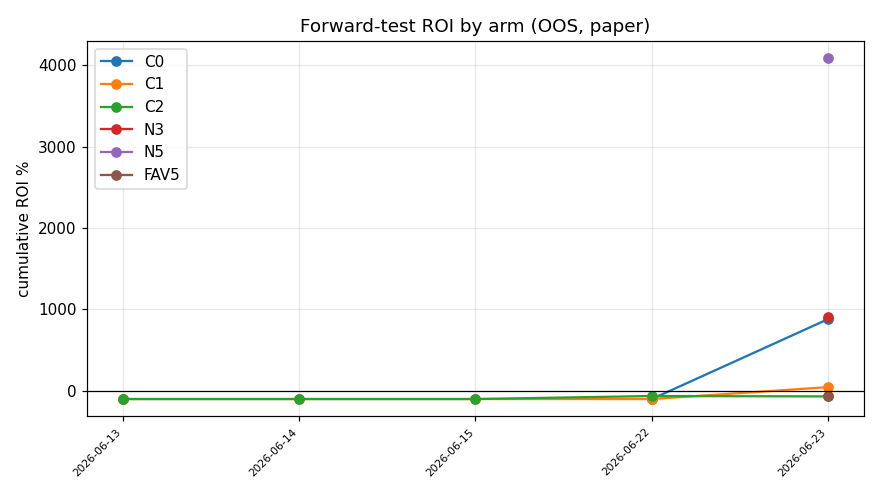
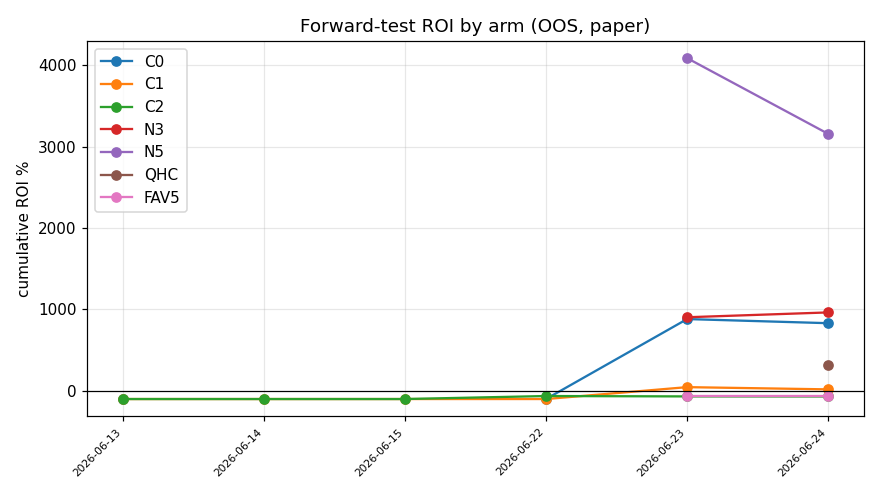
feat(sp_drift): P3 QHC forward arm (model conservative-quantile haircut)
MVP plan 2026-06-24, card P3. Adds a forward arm that decides at the 180min
window (like C2) but sizes on the (SP-band × MTK) drift model's q=0.25
conservative-quantile predicted settlement SP, instead of C2's frozen band map.

- replay.Policy gains sp_adjust callback + apply_sp_adjust(snaps, fn); replay_policy
  applies it after any band haircut. General SP transform, reuses the full pipeline.
- forward.build_qhc_arm(model, decision_mtk=WINDOW_MTK, q=0.25) -> ("QHC", Policy).
  runner fits the model and appends it. render_arm_table shows "—" for 0-stake
  (nan ROI). GATE-FT unchanged (check_stopping_rule still C0/C1/C2 only).
- 3 new tests (apply_sp_adjust, build_qhc_arm, run_forward includes QHC). 52 green.

Local commit (not pushed) — pending reviewer.

diff --git a/tests/sp_drift/test_forward.py b/tests/sp_drift/test_forward.py
@@ -205,3 +205,43 @@ def test_run_forward_returns_one_row_per_arm(tmp_path):
     r0 = rows[0]
     assert set(LEDGER_COLS) <= set(r0)               # every ledger column present
     assert r0["forward_start"] == "2026-06-13" and r0["run_date"] == "2026-06-21"
+
+
+# ---- P3: QHC (model conservative-quantile haircut) forward arm ----
+def test_apply_sp_adjust_maps_each_sp():
+    from src.phase5a.data_loader import LiveSnapshot
+    from src.sp_drift.replay import apply_sp_adjust
+    s = LiveSnapshot(match_id="m", issue="1", match_idx=1, league="x",
+                     kickoff_ts="t", home=None, away=None, handicap_line=None,
+                     sp_3=4.0, sp_1=None, sp_0=2.0, snapshot_ts=None)
+    out = apply_sp_adjust([s], lambda sp: sp * 0.5)[0]
+    assert out.sp_3 == 2.0 and out.sp_0 == 1.0 and out.sp_1 is None
+
+
+def test_build_qhc_arm_uses_model_quantile():
+    from src.sp_drift.drift_model import DriftModel
+    from src.sp_drift.forward import build_qhc_arm
+    # empty cells → everything falls back to global prior (mean 0.8). q=0.5 → mean.
+    model = DriftModel(cells={}, band_prior={}, global_prior=(0.8, 0.2))
+    name, pol = build_qhc_arm(model, decision_mtk=600.0, q=0.5)
+    assert name == "QHC"
+    assert pol.mtk_target == 600.0
+    assert pol.sp_adjust is not None and pol.haircut is None
+    assert abs(pol.sp_adjust(4.0) - 3.2) < 1e-6      # 4.0 × 0.8
+
+
+def test_run_forward_includes_qhc_arm(tmp_path):
+    from src.sp_drift import panel as P
+    from src.sp_drift.drift_model import fit_drift_model
+    from src.sp_drift.forward import build_qhc_arm
+    db = _forward_db(tmp_path)
+    pan = P.build(db, cache_path=tmp_path / "p.parquet", rebuild=True)
+    model = fit_drift_model(pan)
+    arms = build_arms(baseline_mtk=600.0, haircut_map=HAIRCUT_MAP)
+    arms.append(build_qhc_arm(model, decision_mtk=30.0, q=0.25))
+    rows = run_forward(pan, db, NicheConfig.load(), arms,
+                       run_date="2026-06-21", forward_start="2026-06-13")
+    by = {r["arm"] for r in rows}
+    assert "QHC" in by
+    qhc = [r for r in rows if r["arm"] == "QHC"][0]
+    assert set(LEDGER_COLS) <= set(qhc)

diff --git a/src/sp_drift/replay.py b/src/sp_drift/replay.py
@@ -8,7 +8,7 @@ from __future__ import annotations
 
 import sqlite3
 from pathlib import Path
-from typing import List, Optional
+from typing import Callable, List, Optional
 
 import pandas as pd
 
@@ -60,6 +60,20 @@ def apply_band_haircut(snaps: List[LiveSnapshot], band_bias: dict) -> List[LiveS
             for s in snaps]
 
 
+def apply_sp_adjust(snaps: List[LiveSnapshot],
+                    fn: Callable[[float], float]) -> List[LiveSnapshot]:
+    """Return new LiveSnapshots with each selection SP mapped by ``fn`` (e.g. a
+    DriftModel conservative-quantile adjustment ``sp -> adjusted_sp``). None or
+    non-positive SPs are left unchanged."""
+    def adj(sp: Optional[float]) -> Optional[float]:
+        if sp is None or sp <= 0:
+            return sp
+        return fn(sp)
+
+    return [_dc_replace(s, sp_3=adj(s.sp_3), sp_1=adj(s.sp_1), sp_0=adj(s.sp_0))
+            for s in snaps]
+
+
 def actuals_from_db(live_db_path: str | Path) -> dict:
     """Real settlement truth: {match_id: {result_code, winning_sp}}. This is
     the SP you are actually paid at — replay settles against THIS, not the
@@ -84,6 +98,7 @@ from src.phase5a.planner import build_weekly_plan
 class Policy:
     mtk_target: float                 # decision minutes-to-kickoff
     haircut: Optional[dict] = None    # band_bias map, or None
+    sp_adjust: Optional[Callable[[float], float]] = None  # per-leg SP map, or None
     n_legs: int = 4
     kelly_fraction: float = 0.0625    # 1/16 per v2.1
     combo_ev_threshold: float = 0.05
@@ -99,6 +114,8 @@ def replay_policy(panel: pd.DataFrame, live_db_path: str | Path,
     snaps = decision_snapshots(panel, mtk_target=policy.mtk_target)
     if policy.haircut:
         snaps = apply_band_haircut(snaps, policy.haircut)
+    if policy.sp_adjust:
+        snaps = apply_sp_adjust(snaps, policy.sp_adjust)
 
     by_issue: dict = {}
     for s in snaps:

diff --git a/scripts/run_sp_drift_forward.py b/scripts/run_sp_drift_forward.py
@@ -27,6 +27,9 @@ def main() -> None:
     cfg = NicheConfig.load()
     baseline = P.baseline_decision_mtk(WEBUI)
     arms = F.build_arms(baseline_mtk=baseline, haircut_map=F.HAIRCUT_MAP)
+    # QHC: model-based conservative-quantile haircut arm (descriptive, not GATE-FT)
+    from src.sp_drift.drift_model import fit_drift_model
+    arms.append(F.build_qhc_arm(fit_drift_model(pan), q=0.25))
     rows = F.run_forward(pan, LIVE, cfg, arms, run_date=today, forward_start=F.FORWARD_START)
     # FAV5: descriptive 'bet the favorite, N=5' arm (flat-staked, not GATE-FT).
     rows.append(F.favorite_arm_row(pan, LIVE, today, forward_start=F.FORWARD_START,
@@ -70,6 +73,9 @@ def main() -> None:
         "> **N3 / N5 是描述性 N-sweep arm**（与 C0 同决策时机、仅 n_legs 不同），"
         "用于观察腿数对 ROI/漂移的影响（盈亏归因显示漂移随 N 乘法放大）；"
         "**不参与 GATE-FT 判定**（judging 仍只看 C0/C1/C2）。",
+        "> **QHC 是「模型保守分位 haircut」arm**（与 C1/C2 同决策时机=180min 窗口，但 sizing "
+        "用 (SP档×MTK桶) 漂移模型的 q=0.25 保守分位预测结算 SP，而非 C2 的冻结档位点估计）；"
+        "检验模型+分位能否捞回 C2 漏掉的价值；不进 GATE-FT。\n"
         "> **FAV5 是「押每场最热门(最低SP)、N=5」arm**（平注，非 Kelly）：检验"
         "「抽水每票一次×热门 realized p×SP>1×中等N」的假说（见 high_n_favorite_parlay 研究）；"
         "roi/命中率/周σ 为有效指标，其 MaxDD 与 Kelly-sized 的 C/N arm 不可直接比；不进 GATE-FT。",

diff --git a/src/sp_drift/forward.py b/src/sp_drift/forward.py
@@ -46,6 +46,16 @@ def build_arms(baseline_mtk: float, haircut_map: dict) -> List[Tuple[str, Policy
     ]
 
 
+def build_qhc_arm(model, decision_mtk: float = WINDOW_MTK,
+                  q: float = 0.25) -> Tuple[str, Policy]:
+    """QHC arm: like C2 (decide at the 180min window) but size on the model's
+    CONSERVATIVE-QUANTILE predicted settlement SP instead of the frozen band map.
+    Tests whether the (SP-band × MTK) drift model + conservative quantile
+    recovers value the frozen-band C2 haircut misses. Descriptive, not GATE-FT."""
+    return ("QHC", Policy(mtk_target=decision_mtk,
+                          sp_adjust=lambda sp: model.adjusted_sp(sp, decision_mtk, q)))
+
+
 LEDGER_COLS = ["run_date", "arm", "forward_start", "n_combos", "n_hits",
                "total_stake", "total_pnl", "roi", "max_dd", "final_bankroll",
                "weekly_sigma"]
@@ -155,9 +165,11 @@ def render_arm_table(latest: dict, arm_names: list) -> list:
         r = latest[a]
         nc = r["n_combos"]
         hit_rate = (100.0 * r["n_hits"] / nc) if nc else 0.0
+        roi = r["roi"]
+        roi_s = "—" if (roi != roi) else f"**{roi * 100:+.1f}%**"   # nan (0-stake) → —
         lines.append(
             f"| {a} | {nc} | {r['n_hits']} | {hit_rate:.1f}% | "
-            f"{r['total_stake']:,.0f} | **{r['roi'] * 100:+.1f}%** | "
+            f"{r['total_stake']:,.0f} | {roi_s} | "
             f"{r['max_dd'] * 100:.0f}% | {r.get('weekly_sigma', 0.0):,.1f} |"
         )
     return lines

diff --git a/docs/research/sp_drift_forward.md b/docs/research/sp_drift_forward.md
@@ -1,26 +1,28 @@
 # SP 漂移 Forward-Test（纸面 · OOS）
 
-run_date=2026-06-23; FORWARD_START=2026-06-13; weeks_elapsed=1.4
+run_date=2026-06-24; FORWARD_START=2026-06-13; weeks_elapsed=1.6
 
 ## 各 arm 累计（FORWARD_START 至今的样本外切片）
 
 | arm | 组合 | 命中 | 命中率 | 总投注 | ROI | MaxDD | 周σ |
 |-----|------|------|--------|--------|-----|-------|-----|
-| C0 | 100 | 5 | 5.0% | 294 | **+882.3%** | 0% | 1,117.8 |
-| C1 | 159 | 4 | 2.5% | 608 | **+46.1%** | 0% | 350.3 |
-| C2 | 200 | 1 | 0.5% | 2,168 | **-67.7%** | 2% | 374.4 |
-| N3 | 42 | 14 | 33.3% | 824 | **+904.6%** | 0% | 3,071.9 |
-| N5 | 6 | 1 | 16.7% | 14 | **+4087.7%** | 0% | 230.9 |
+| C0 | 102 | 5 | 4.9% | 310 | **+831.6%** | 0% | 1,119.4 |
+| C1 | 182 | 4 | 2.2% | 748 | **+18.8%** | 0% | 365.5 |
+| C2 | 200 | 1 | 0.5% | 2,226 | **-68.6%** | 2% | 370.2 |
+| N3 | 41 | 14 | 34.1% | 778 | **+963.9%** | 0% | 3,067.0 |
+| N5 | 7 | 1 | 14.3% | 18 | **+3157.1%** | 0% | 231.3 |
+| QHC | 67 | 2 | 3.0% | 178 | **+322.5%** | 0% | 309.3 |
 | FAV5 | 600 | 4 | 0.7% | 600 | **-66.4%** | 0% | 67.9 |
 
 ## 停止规则 / GATE-FT 状态
 
 - stop=True  reason=n_combos>=200  **verdict=no_go**
-- C2 组合数 200/200 · 周数 1.4/12 · C2 MaxDD 2%/50%
-- ROI: C0 +882.3% / C1 +46.1% / C2 -67.7%（go 需 C2>0 且 C2−C0≥5pp 且 C1−C0≥5pp）
+- C2 组合数 200/200 · 周数 1.6/12 · C2 MaxDD 2%/50%
+- ROI: C0 +831.6% / C1 +18.8% / C2 -68.6%（go 需 C2>0 且 C2−C0≥5pp 且 C1−C0≥5pp）
 
 > 纸面、样本外、haircut 冻结在 GATE 1 值。样本初期很小，勿据早期数据下结论。
 > **N3 / N5 是描述性 N-sweep arm**（与 C0 同决策时机、仅 n_legs 不同），用于观察腿数对 ROI/漂移的影响（盈亏归因显示漂移随 N 乘法放大）；**不参与 GATE-FT 判定**（judging 仍只看 C0/C1/C2）。
+> **QHC 是「模型保守分位 haircut」arm**（与 C1/C2 同决策时机=180min 窗口，但 sizing 用 (SP档×MTK桶) 漂移模型的 q=0.25 保守分位预测结算 SP，而非 C2 的冻结档位点估计）；检验模型+分位能否捞回 C2 漏掉的价值；不进 GATE-FT。
 > **FAV5 是「押每场最热门(最低SP)、N=5」arm**（平注，非 Kelly）：检验「抽水每票一次×热门 realized p×SP>1×中等N」的假说（见 high_n_favorite_parlay 研究）；roi/命中率/周σ 为有效指标，其 MaxDD 与 Kelly-sized 的 C/N arm 不可直接比；不进 GATE-FT。
 > ⚠ **运营口径差**：C1/C2 的 window 是按期次池化、每场各取其「距开赛 180min」的 SP；实盘 `kickoff_window_hours` 是「距现在 N 小时内开赛」的同时性过滤，二者不等价。经 P1 权衡分析（2026-06-14）：受 N=4 需 ≥30 场同时在池约束，任何窗口值都无法两全（紧→autoplan 饿死、松→漂移不降），故实盘窗口已改回 0。本 test 量化的是「理想临近决策」的上界，落地需运营机制重设计（已搁置）。
 
